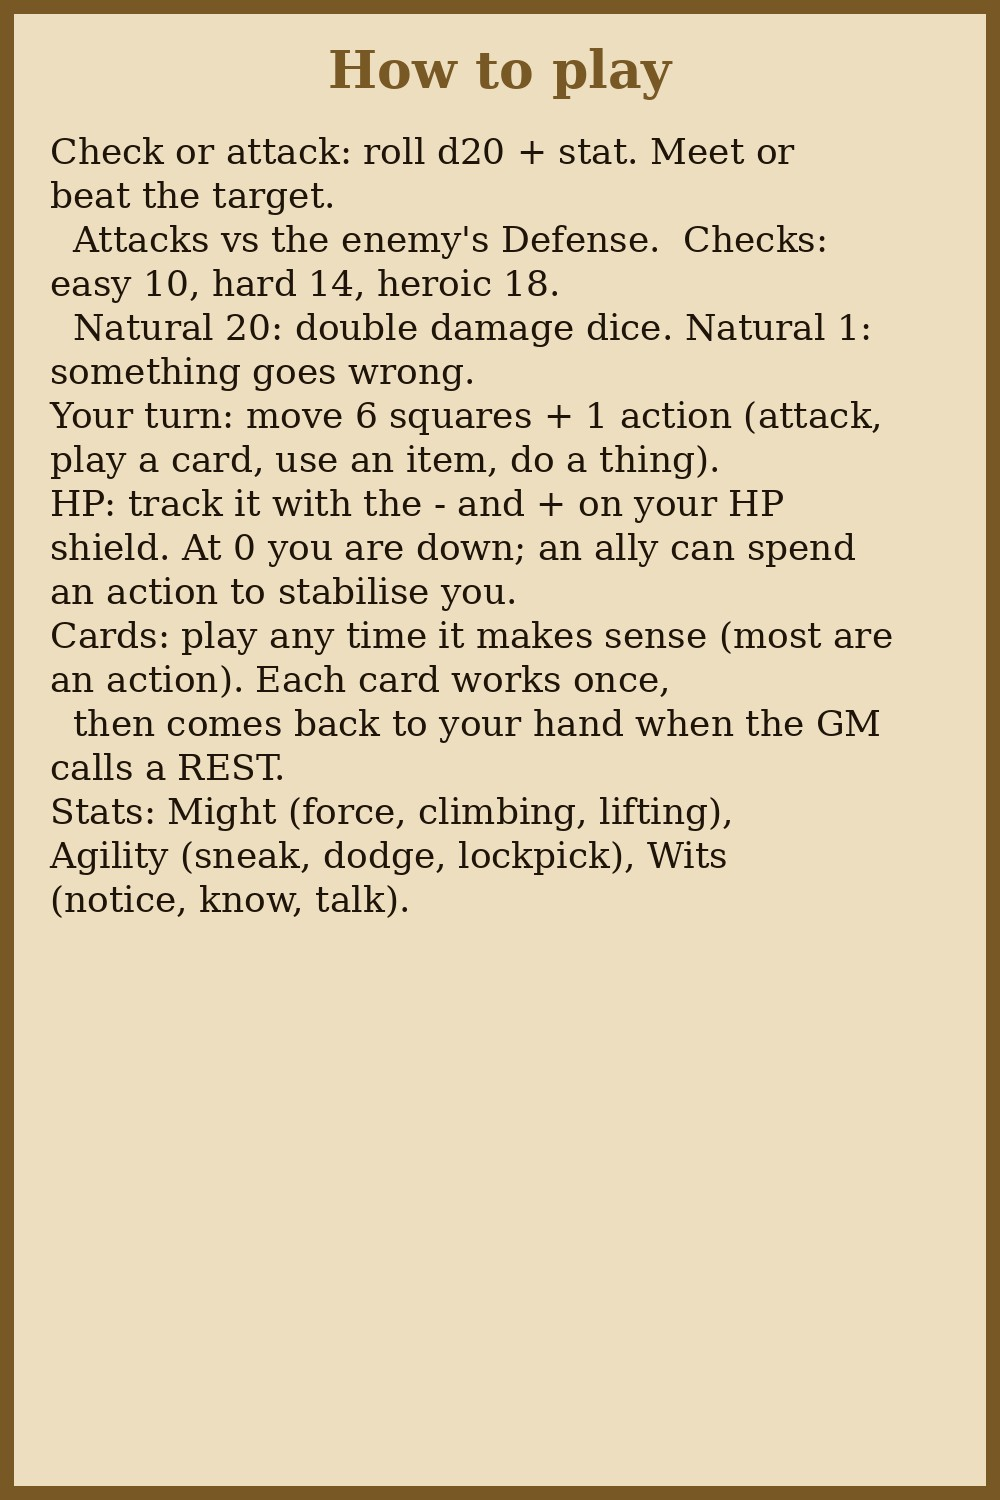
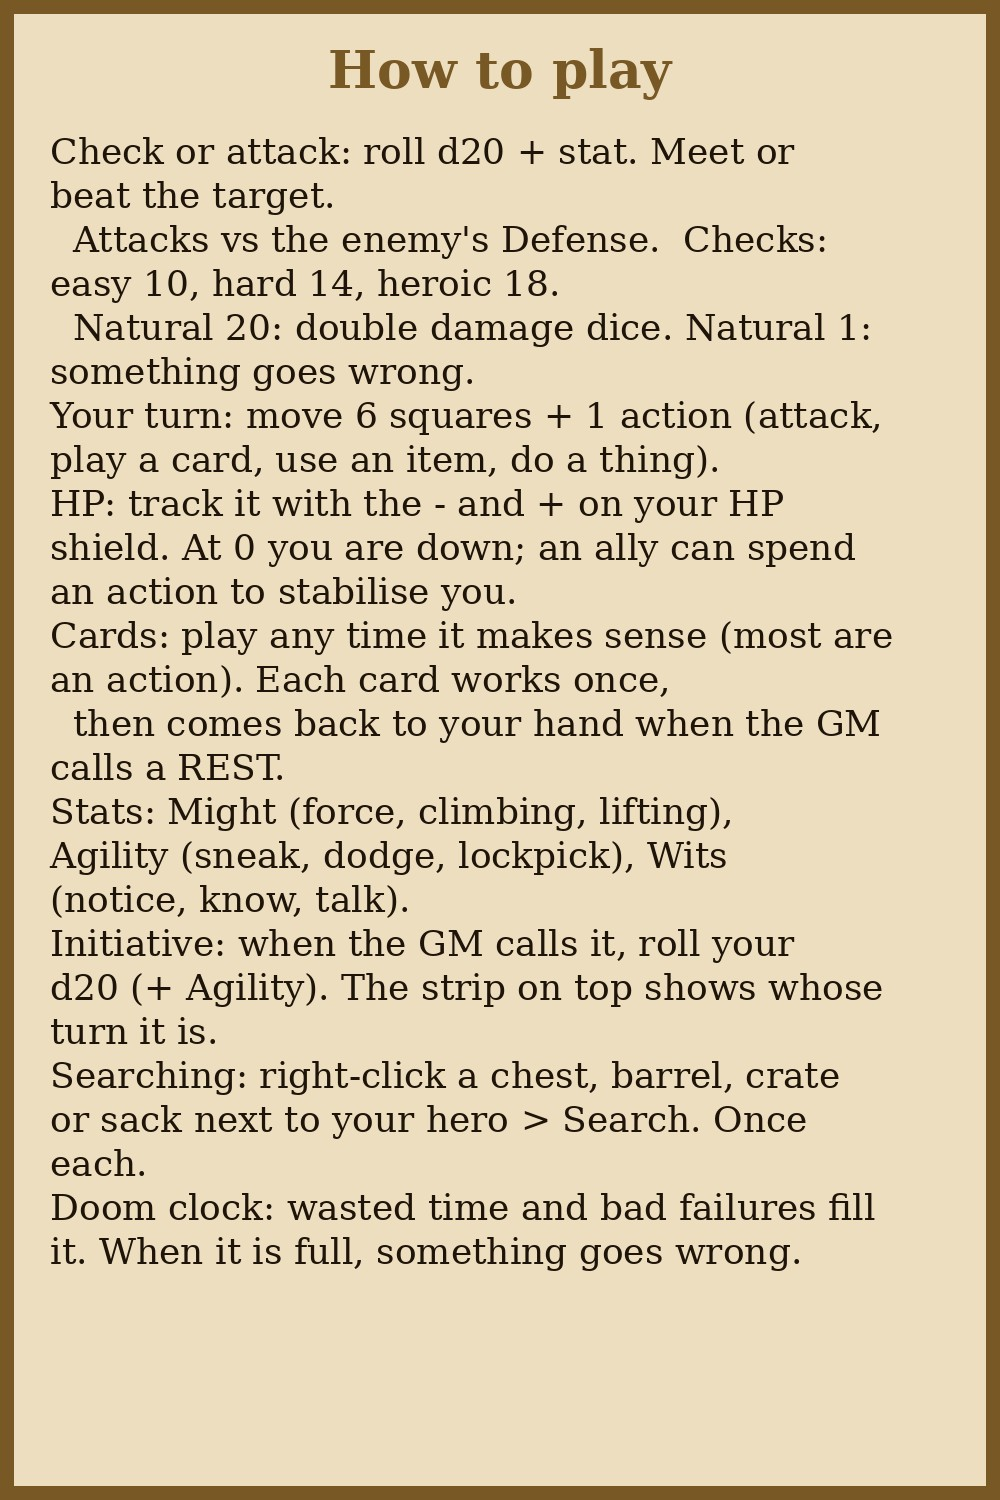
Turn order, doom clock, tremor (auto on the chainmaster's reveal), searchable containers

Changed region(s): [[0.062, 0.6133, 0.868, 0.8587]]

diff --git a/build.py b/build.py
@@ -3,7 +3,7 @@ e.g. https://raw.githubusercontent.com/<user>/<repo>/<commit>/  -> writes art/ou
 import hashlib, json, math, subprocess, sys, textwrap
 from pathlib import Path
 from PIL import Image, ImageChops, ImageDraw, ImageFont
-from content import HEROES, NPCS, SCENES, RULES, BATTLE_MUSIC, ITEMS, SKIES
+from content import HEROES, NPCS, SCENES, RULES, BATTLE_MUSIC, ITEMS, SKIES, LOOT, DOOM_NOTES
 
 ROOT = Path(__file__).parent
 CONTROLLER = "901d00"       # GUID of the hidden object that runs game.lua
@@ -312,7 +312,7 @@ def npc(key, x, z, n, scene, hp=None, face=None):
         o["RPGdead"] = True
     if attacks or not t.get("dead"):   # corpses and carcasses are props, everyone else gets a healthbar
         o["LuaScript"] = (ROOT / "npc.lua").read_text()
-        o["Tags"] = o["Tags"] + ["npc"]
+        o["Tags"] = o["Tags"] + ["npc"] + (["boss"] if t.get("boss") else [])   # boss: revealing it shakes the ground
         move = t.get("move", 8 if t.get("fig") == "rpg_CYCLOP" else 6)
         o["Description"] = "\n".join([f"Def {t['defense']}   Move {move}   HP {hp}"] + [
             f"{a['name']}: " + ", ".join(x for x in ((f"+{a['hit']}" if a["hit"] else ""), a["dmg"] or "", a["note"]) if x)
@@ -330,6 +330,9 @@ LOOSE = ("barrel", "keg", "crate", "crates", "sack", "chest", "chest_gold", "coi
          "wicker_shield", "giant_club", "lumber", "candelabra", "hoard", "hoard_b")   # not "torch": its fire must stay in the bowl
 
 
+SEARCH = ("chest", "barrel", "crate", "crates", "sack")
+
+
 def prop(spec, n, scene, base, textures):
     name, x, z, *rest = spec
     extra = rest.pop() if rest and isinstance(rest[-1], dict) else {}   # {"name", "gm": GM-only note, "hidden": trap, "gas": trap 3}
@@ -337,7 +340,8 @@ def prop(spec, n, scene, base, textures):
     s = list(scale) if isinstance(scale, (list, tuple)) else [scale] * 3
     loose = name in LOOSE
     common = dict(GUID=guid(scene, "prop", n), Tags=["scene"] + (["hidden", "manual"] if extra.get("hidden") else []) +
-                  (["trapgas"] if extra.get("gas") else []),
+                  (["trapgas"] if extra.get("gas") else []) +
+                  (["search"] if name in SEARCH and "gm" not in extra else []),   # random loot (content.LOOT)
                   Tooltip="gm" in extra, Locked=not loose, GMNotes=extra.get("gm", ""))
     if name.startswith("Tileset_"):                       # built-in TTS tileset piece
         return obj(name, tf(ry=rot), grid={"x": x, "z": z, "k": "builtin", "s": s}, **common)
@@ -526,13 +530,16 @@ DIE_COLOURS = {"Die_4": (0.55, 0.06, 0.08), "Die_6": (0.55, 0.06, 0.08), "Die_8"
 TRAY = (7.2, -7.5)                  # dice tray, from X0; it also carries the GM control panel's buttons
 # GM control panel, like the floating one: bottom left of the red mat as the GM sees it (GM looks west, so "down" is
 # +x and "left" is -z). Rows run down the mat; each entry: label, what it does, its row, and its slot in a 3-wide row.
-PANEL_Z, PANEL_X0, ROW = -3.0, 4.2, 0.52
+PANEL_Z, PANEL_X0, ROW = -3.0, 4.2, 0.48
+GM_EXTRA = (("initiative", "Initiative"), ("nextTurn", "Next turn"), ("endFight", "End fight"),
+            ("doomUp", "Doom +1"), ("doomDown", "Doom -1"), ("tremor", "Tremor"))
 GM_BUTTONS = ([dict(label="Game Master", row=0, kind="title")] +
               [dict(label=s["title"], scene=i + 1, row=i + 1) for i, s in enumerate(SCENES)] +
               [dict(label=t, fn=f, row=len(SCENES) + 1, slot=k) for k, (f, t) in
                enumerate((("musicScene", "Scene music"), ("musicBattle", "Battle"), ("musicStop", "Stop")))] +
               [dict(label="Toggle visibility (selected)", fn="toggleSelected", row=len(SCENES) + 2),
-               dict(label="REST (cards + full HP)", fn="rest", row=len(SCENES) + 3)])
+               dict(label="REST (cards + full HP)", fn="rest", row=len(SCENES) + 3)] +
+              [dict(label=t, fn=f, row=len(SCENES) + 4 + k // 3, slot=k % 3) for k, (f, t) in enumerate(GM_EXTRA)])
 for b in GM_BUTTONS:
     b["x"] = round(TRAY[0] - (PANEL_X0 + ROW * b["row"]), 2)   # mirrored: rows came out bottom-to-top in TTS
     b["z"] = round(PANEL_Z + (b["slot"] - 1) * 1.1 - TRAY[1] if "slot" in b else PANEL_Z - TRAY[1], 2)
@@ -555,7 +562,7 @@ def gm_objects(base):
            model("dice_tray", GUID=guid("gm", "tray"), Nickname="Dice tray", Locked=True, convex=False,
                  Tags=["gm", "gmconsole"], grid={"x": X0 + TRAY[0], "z": TRAY[1], "k": "model", "lift": 0}),
            model("gm_board", GUID=guid("gm", "board"), Nickname="GM controls", Locked=True, **gm,
-                 grid={"x": X0 + PANEL_X0 + ROW * (len(SCENES) + 3) / 2, "z": PANEL_Z, "k": "model", "lift": 0}),
+                 grid={"x": X0 + PANEL_X0 + ROW * (len(SCENES) + 5) / 2, "z": PANEL_Z, "k": "model", "lift": 0}),
            obj("Custom_PDF", tf(ry=90.0), GUID=guid("gm", "book"), Nickname="GM guide", **gm,
                CustomPDF={"PDFUrl": f"{base}art/out/gm_guide.pdf", "PDFPassword": "", "PDFPage": 0, "PDFPageOffset": 0},
                grid={"x": X0 + 2.6, "z": -6.9, "k": "tile", "s": [1.8, 1, 1.8]})]
@@ -584,8 +591,10 @@ def xml_ui(base):
     on = f'onClick="{CONTROLLER}/'   # UI lives in Global, handlers live on the controller object
     scenes = "".join(f'<Button id="scene_{i + 1}" {on}onSceneButton" {btn}>{s["title"]}</Button>'
                      for i, s in enumerate(SCENES))
+    extra = "".join('<HorizontalLayout spacing="4" preferredHeight="34">' + "".join(
+        f'<Button {on}{f}" {btn}>{t}</Button>' for f, t in GM_EXTRA[k:k + 3]) + "</HorizontalLayout>" for k in (0, 3))
     gm = f"""<Panel id="gm" visibility="Black" rectAlignment="UpperRight" offsetXY="-10 -80" width="260"
- height="{80 + 38 * (len(SCENES) + 4)}" color="#1b1410ee" padding="8 8 8 8">
+ height="{80 + 38 * (len(SCENES) + 6)}" color="#1b1410ee" padding="8 8 8 8">
 <VerticalLayout spacing="4" childForceExpandHeight="false">
 <Text id="sceneTitle" fontSize="18" color="#f0d9a0" fontStyle="Bold" preferredHeight="40">GM</Text>
 {scenes}
@@ -593,7 +602,13 @@ def xml_ui(base):
 <Button {on}musicBattle" {btn}>Battle</Button><Button {on}musicStop" {btn}>Stop</Button></HorizontalLayout>
 <Button {on}toggleSelected" {btn}>Toggle visibility (selected)</Button>
 <Button {on}rest" {btn}>REST (cards + full HP)</Button>
+{extra}
 </VerticalLayout></Panel>"""
+    turns = """<Panel id="turns" active="false" rectAlignment="UpperCenter" offsetXY="0 -10" width="1100" height="44"
+ color="#1b1410dd" padding="10 10 4 4"><Text id="turnsText" fontSize="20" color="#f0d9a0" alignment="MiddleCenter"> </Text></Panel>"""
+    doom = f"""<Panel id="doom" active="false" rectAlignment="UpperLeft" offsetXY="10 -80" width="250" height="70"
+ color="#1b1410dd" padding="8 8 6 8"><VerticalLayout spacing="4"><Text fontSize="16" color="#f0d9a0" fontStyle="Bold">DOOM CLOCK</Text>
+<HorizontalLayout spacing="4">{"".join(f'<Panel id="doom{i}" color="#3a2a1a"/>' for i in range(1, 7))}</HorizontalLayout></VerticalLayout></Panel>"""
     picks = "".join(f"""<VerticalLayout spacing="4"><Image id="pickimg_{h['color']}" image="portrait_{h['key']}" {on}pick" preserveAspect="true"/>
 <Button id="pick_{h['color']}" {on}pick" {btn}>{h['name'].split(' the ')[0]}</Button></VerticalLayout>"""
                     for h in HEROES)
@@ -606,7 +621,7 @@ def xml_ui(base):
     # Lua's UI.setXml wants lowercase name/url (the save-file format's Name/URL gives a null-reference error)
     assets = [{"name": f"portrait_{h['key']}", "url": f"{base}art/out/portrait_{h['key']}.jpg"} for h in HEROES] + [
         {"name": "portrait_gm", "url": f"{base}art/out/portrait_gm.jpg"}]
-    return gm + pick, assets
+    return gm + pick + turns + doom, assets
 
 
 def lua_lit(v):
@@ -635,7 +650,7 @@ def gm_guide():
            "  bind the *Toggle visibility (GM)* hotkey (Options > Game Keys). Hidden things vanish for players and show",
            "  see-through with an outline for you. Press again to show them.",
            "- The same text as below sits in the Notebook (GM-only tabs).\n",
-           "## Rules\n", "```", RULES, "```\n", "## Heroes\n"]
+           "## Rules\n", "```", RULES, "```\n", "## Doom clock\n", "```", DOOM_NOTES, "```\n", "## Heroes\n"]
     for h in HEROES:
         out.append(f"**{h['name']}** ({h['color']}) HP {h['hp']}, Def {h['defense']}, "
                    + ", ".join(f"{k} {v:+d}" for k, v in h["stats"].items()))
@@ -665,11 +680,13 @@ def main(base):
     heroes, kits = {}, []
     for n, h in enumerate(HEROES):
         kits += hero_objects(h, n, base)
-        heroes[h["color"]] = dict(name=h["name"], short=h["name"].split(" the ")[0], hp=h["hp"])
+        heroes[h["color"]] = dict(name=h["name"], short=h["name"].split(" the ")[0], hp=h["hp"],
+                                     agility=h["stats"]["Agility"])
     notebook = [dict(title="Rules", body=RULES, color="Grey")] + \
-               [dict(title=s["title"], body=s["notes"], color="Black") for s in SCENES]
+               [dict(title=s["title"], body=s["notes"], color="Black") for s in SCENES] + \
+               [dict(title="Doom clock", body=DOOM_NOTES, color="Black")]
     data = dict(colors=[h["color"] for h in HEROES], heroes=heroes, kits=kits, notebook=notebook, layout=LAYOUT,
-                gm=gm_objects(base), gm_buttons=GM_BUTTONS, fog=FOG, fx=FX, card_fx=CARD_FX,
+                gm=gm_objects(base), gm_buttons=GM_BUTTONS, fog=FOG, fx=FX, card_fx=CARD_FX, loot=LOOT,
                 scenes=[scene_data(s, base, textures) for s in SCENES],
                 battle=dict(url=f"{base}music/{BATTLE_MUSIC}", title="Battle!"))
     # any change to data (incl. npc.lua inside spawns) or to game.lua gives a new version -> clients reinstall

diff --git a/test_lua.py b/test_lua.py
@@ -51,6 +51,7 @@ function tonumber(v, base)   -- MoonSharp (TTS) throws where real Lua returns ni
 end
 UIattr = {}
 UI = { setAttribute = function(id, k, v) UIattr[id .. "." .. k] = tostring(v) end,
+       setValue = function(id, v) UIattr[id .. ".value"] = v end,
        setXml = function(x, assets)
          for _, a in ipairs(assets) do assert(a.name and a.url, "UI asset needs lowercase name/url") end
          UIxml, UIassets = x, assets
@@ -134,6 +135,9 @@ function makeObj(d)
   end
   function o.destruct() objects[d.GUID] = nil end
   function o.setLock(v) o.locked = v end
+  function o.getLock() if o.locked == nil then return d.Locked or false end return o.locked end
+  function o.addForce(v) o.forced = (o.forced or 0) + 1 end
+  function o.addTorque(v) end
   function o.setPositionSmooth(p) o.pos = p end
   function o.setRotation(r) end
   function o.setRotationSmooth(r) end
@@ -194,7 +198,7 @@ ctl = g.getObjectFromGUID(CTL)
 assert ctl and ctl.getVar("VERSION") == game["version"]
 c = ctl.env
 assert 'onClick="%s/pick"' % CTL in g.UIxml
-assert len(list(g.tabs.values())) == 1 + len(c.DATA.scenes)
+assert len(list(g.tabs.values())) == 2 + len(c.DATA.scenes)
 count = lambda tag: len(list(g.getObjectsWithTag(tag).values()))
 assert count("scene") == 0 and count("kit") == 20, (count("scene"), count("kit"))   # title: no props, 4 hero kits
 assert g.tableURL.endswith("table_title.jpg") and g.tableName == "Table_Custom"
@@ -400,7 +404,7 @@ assert ctl2.marker is None and ctl2.getVar("VERSION") == "newer"
 assert g.UIattr["sceneTitle.text"] == scenes[2]["title"]
 assert count("kit") == 25 and hand("Red") == 6 and count("card_Red") == 6, (count("kit"), hand("Red"))  # Red deck dealt: 20 - 1 + 6
 assert len(g.handzones) == 5   # the GM's spawned hand zone is reused, not duplicated
-assert len(list(g.tabs.values())) == 1 + len(scenes)
+assert len(list(g.tabs.values())) == 2 + len(scenes)
 
 # cave: the princess starts hidden, and "reveal all" leaves her hidden
 c.setScene(7)
@@ -480,6 +484,40 @@ item = next(o for o in g.getObjectsWithTag("gm").values() if o.data.Name == "Car
 decks = [o for o in g.getObjectsWithTag("kit").values() if o.data.Name == "Deck"]
 assert decks and all(abs(o.data.Transform.scaleX - item.data.Transform.scaleX) < 1e-9 for o in decks)
 assert all(abs(c.Transform.scaleX - item.data.Transform.scaleX) < 1e-9 for o in decks for c in o.data.ContainedObjects.values())
+
+# outskirts: revealing the chainmaster shakes the ground (loose things hop, dust puffs); others don't
+c.setScene(2)
+objs = list(g.getObjectsWithTag("scene").values())
+boss = [o for o in objs if o.hasTag("boss")]
+assert len(boss) == 1 and boss[0].data.Nickname == "Giant chainmaster"
+other = next(o for o in objs if o.hasTag("npc") and not o.hasTag("boss"))
+other.tags["hidden"] = True; c.reveal(other); assert not any(o.forced for o in objs)
+boss[0].tags["hidden"] = True; c.reveal(boss[0])
+assert any(o.forced for o in objs) and not any(o.forced for o in objs if o.getLock())
+# turn order: one roll per NPC kind ("Giant x2"), seated heroes rolled for when they don't roll in time
+for o in objs:
+    o.tags["hidden"] = None
+c.initiative()
+strip = g.UIattr["turnsText.value"]
+assert g.UIattr["turns.active"] == "true" and "Giant x2" in strip and to_py(c.DATA.heroes)["Red"]["short"] in strip and "waiting" not in strip, strip
+c.nextTurn(); assert "<b>" in g.UIattr["turnsText.value"] and any(o.lit for o in g.getObjects().values())
+c.endFight(); assert g.UIattr["turns.active"] == "false"
+# doom clock: hidden at 0, fills, empties after it's full
+c.doomUp(); assert g.UIattr["doom.active"] == "true" and g.UIattr["doom1.color"] != g.UIattr["doom2.color"]
+for _ in range(5):
+    c.doomUp()
+assert g.UIattr["doom.active"] == "false" and "doom clock is full" in list(g.log.values())[-1]
+# searching: a chest/barrel without fixed loot, once, with the hero beside it; fixed-loot props have no Search
+c.setScene(3)
+objs = list(g.getObjectsWithTag("scene").values())
+bins = [o for o in objs if o.hasTag("search")]
+assert bins and not any(o.hasTag("search") for o in objs if o.data.GMNotes)
+b = bins[0]
+fig = next(iter(g.getObjectsWithTag("fig_Red").values()))
+fig.pos = lua.table_from([100, TOP, 100]); b.menu("Red"); assert "next to it" in list(g.log.values())[-1]
+fig.pos = lua.table_from([b.getPosition().x, TOP, b.getPosition().z]); b.menu("Red")
+assert "searches the" in list(g.log.values())[-1]
+b.menu("Red"); assert "Already searched" in list(g.log.values())[-1]
 
 # ---- npc.lua on a giant
 giant = next(o for o in scenes[1]["spawns"] if o.get("Nickname") == "Giant" and o["Name"] == "rpg_CYCLOP")

diff --git a/content.py b/content.py
@@ -129,7 +129,10 @@ Your turn: move 6 squares + 1 action (attack, play a card, use an item, do a thi
 HP: track it with the - and + on your HP shield. At 0 you are down; an ally can spend an action to stabilise you.
 Cards: play any time it makes sense (most are an action). Each card works once,
   then comes back to your hand when the GM calls a REST.
-Stats: Might (force, climbing, lifting), Agility (sneak, dodge, lockpick), Wits (notice, know, talk)."""
+Stats: Might (force, climbing, lifting), Agility (sneak, dodge, lockpick), Wits (notice, know, talk).
+Initiative: when the GM calls it, roll your d20 (+ Agility). The strip on top shows whose turn it is.
+Searching: right-click a chest, barrel, crate or sack next to your hero > Search. Once each.
+Doom clock: wasted time and bad failures fill it. When it is full, something goes wrong."""
 
 # ---------------------------------------------------------------- npcs
 # Animated townsfolk from the Steam workshop packs "Male Human Commoners" (2960527540) and "Female Human
@@ -163,7 +166,7 @@ NPCS = {
         ("Club smash", 7, "2d8+4", "melee, reach 2"),
         ("Kick", 6, "1d10+2", "melee, target flies 3 squares and falls prone"),
     ], notes="WICKER SHIELD: ranged -5. One eye: a blinding trick (sand, light) makes it miss next turn."),
-    "giant_troll": dict(name="Giant chainmaster", fig="rpg_CYCLOP", scale=1.2, move=6, base=(0.2, 0.45, 0.15), hp=65, defense=11,
+    "giant_troll": dict(boss=True, name="Giant chainmaster", fig="rpg_CYCLOP", scale=1.2, move=6, base=(0.2, 0.45, 0.15), hp=65, defense=11,
                         attacks=[
         ("Fist", 6, "2d6+4", "melee, reach 2"),
         ("Crack the chains", None, None, "every thrall moves 3 and makes a free Rusty knife attack"),
@@ -530,6 +533,35 @@ BATTLE_MUSIC = "battle.mp3"
 
 # ---------------------------------------------------------------- GM desk (GM-only, beside the table)
 # magic items as cards the GM hands out: (name, rules text, card art prompt, copies)
+DOOM_NOTES = """DOOM CLOCK (GM panel: Doom +1 / -1; everyone sees it, hidden while empty)
++1 when: the party dawdles or argues for long, a check fails by 5 or more, someone makes a lot of noise,
+  they rest outside the sewer, or a giant escapes. -1 for a clever shortcut or a great plan.
+FULL (thunder, it empties again): spring one complication.
+  Outskirts: two more giants round the corner / a house collapses, blocking the sewer grate.
+  Sewer: the hunters come back empty-handed and blame the party / a refugee sells them out to Vasko.
+  Den: Vasko's bruisers lock the door / the price for the information doubles.
+  Passage: the door behind them is barred; the rats are awake.
+  Cart: the giants' leader arrives (the chainmaster, full HP).
+  Cave: Isolde is down to 1 HP and Hrothga dies before she can talk.
+Tremor (GM panel): giant footsteps. Revealing the chainmaster does it automatically."""
+
+# what a right-click > Search turns up in a chest/barrel/crate/sack without fixed loot: (weight, text); {gold} = 2-8.
+# Weight 3 or less sparkles. The two prizes are item cards on the GM desk: hand one over.
+LOOT = [
+    (14, "rot, mould and rat droppings. Nothing."),
+    (6, "an angry rat! It bites (1 damage) and is gone."),
+    (5, "a love letter in Dravic, unsent. Worthless, but touching."),
+    (5, "a cracked mug and a lucky horseshoe nail. Worthless."),
+    (18, "{gold} gold."),
+    (12, "a ration (food)."),
+    (9, "a torch."),
+    (7, "a coil of rope."),
+    (5, "a flask of lamp oil (thrown: 1d6 fire, once)."),
+    (5, "a guild token: Vasko's men will take it as a bribe."),
+    (3, "a HEALING DRAUGHT! (GM: hand over the card)"),
+    (3, "a SMOKE EGG! (GM: hand over the card)"),
+]
+
 ITEMS = [
     ("Warren Whistle", "Blow it once: 1d4 street kids turn up to help or cause a distraction.",
      "a small carved bone whistle on a leather cord lying on worn cobblestones, warm candlelight", 1),

diff --git a/GM_GUIDE.md b/GM_GUIDE.md
@@ -23,6 +23,25 @@ HP: track it with the - and + on your HP shield. At 0 you are down; an ally can 
 Cards: play any time it makes sense (most are an action). Each card works once,
   then comes back to your hand when the GM calls a REST.
 Stats: Might (force, climbing, lifting), Agility (sneak, dodge, lockpick), Wits (notice, know, talk).
+Initiative: when the GM calls it, roll your d20 (+ Agility). The strip on top shows whose turn it is.
+Searching: right-click a chest, barrel, crate or sack next to your hero > Search. Once each.
+Doom clock: wasted time and bad failures fill it. When it is full, something goes wrong.
+```
+
+## Doom clock
+
+```
+DOOM CLOCK (GM panel: Doom +1 / -1; everyone sees it, hidden while empty)
++1 when: the party dawdles or argues for long, a check fails by 5 or more, someone makes a lot of noise,
+  they rest outside the sewer, or a giant escapes. -1 for a clever shortcut or a great plan.
+FULL (thunder, it empties again): spring one complication.
+  Outskirts: two more giants round the corner / a house collapses, blocking the sewer grate.
+  Sewer: the hunters come back empty-handed and blame the party / a refugee sells them out to Vasko.
+  Den: Vasko's bruisers lock the door / the price for the information doubles.
+  Passage: the door behind them is barred; the rats are awake.
+  Cart: the giants' leader arrives (the chainmaster, full HP).
+  Cave: Isolde is down to 1 HP and Hrothga dies before she can talk.
+Tremor (GM panel): giant footsteps. Revealing the chainmaster does it automatically.
 ```
 
 ## Heroes
